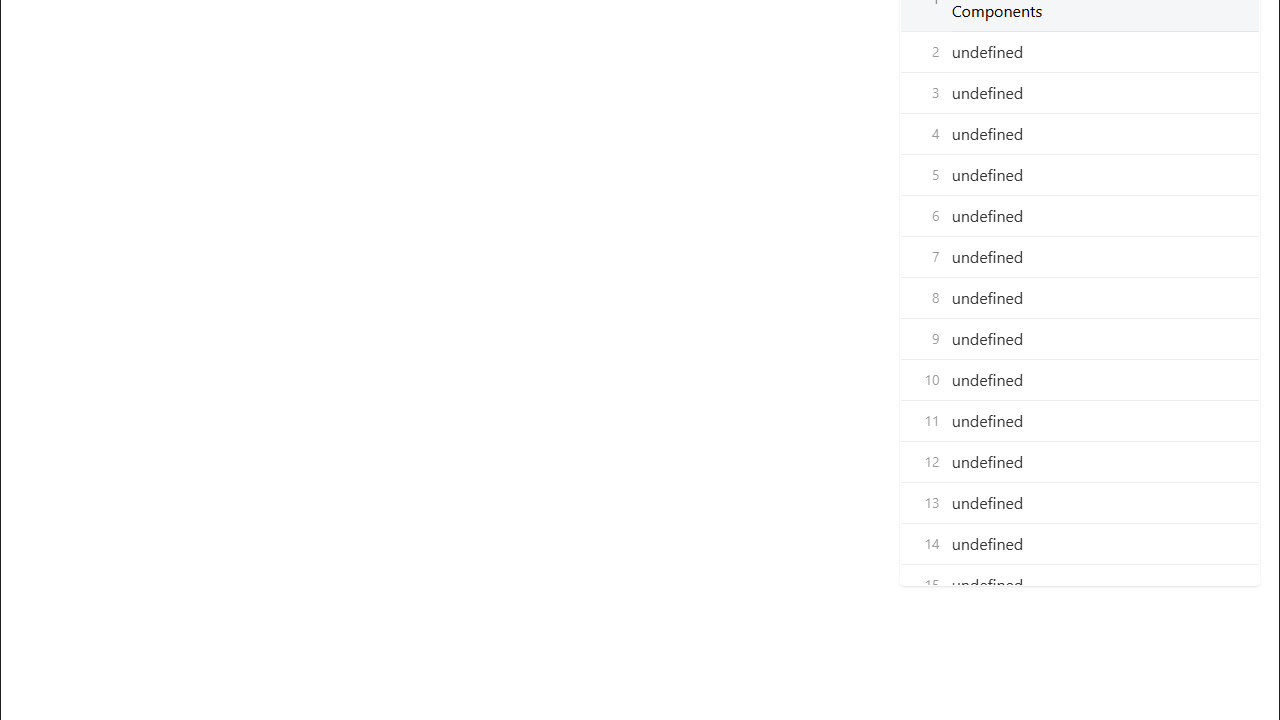
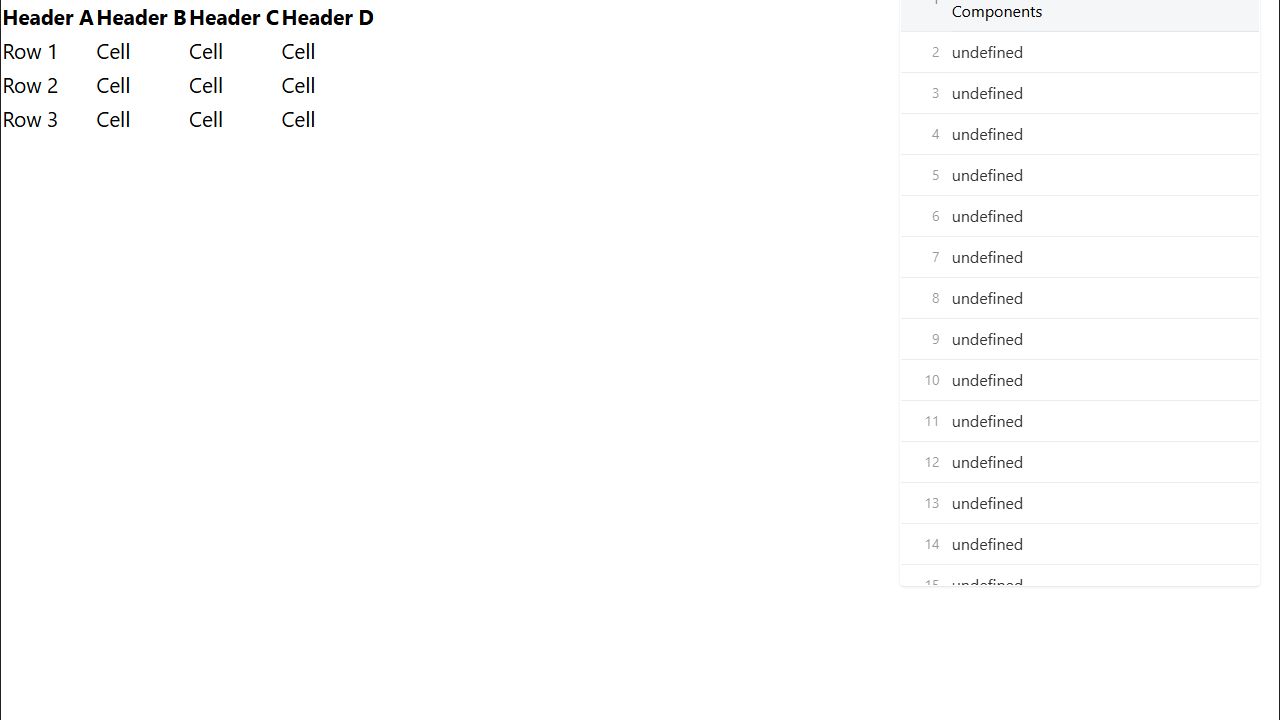
test(visual): rebaseline slides 73 + 74 for v0.4.3 new layouts
Repositioned text-with-icons + table gallery entries from slides
145-146 (outside the SLIDE_COUNT=101 VR window) to slides 73-74
(inside the window) so they get VR coverage without bumping
SLIDE_COUNT.

Pre-existing 102-146 gap in VR coverage remains as tech debt for
a future cleanup release.

Per spec §6.1 (per-task rebaseline, not full sweep).

diff --git a/pages/all-layouts.md b/pages/all-layouts.md
@@ -451,6 +451,44 @@ Describe what the screenshot shows. Keep it brief — one or two sentences maxim
 ![Screenshot placeholder](https://placehold.co/960x600/F0F0F0/333333?text=Screenshot)
 
 ---
+layout: text-with-icons
+title: "Text with icons (6-item POTX example)"
+items:
+  - icon: lightbulb
+    title: "Capability A"
+    description: "Sample text describing capability A."
+    link:
+      text: "Learn more"
+      url: "#"
+  - icon: people-connected
+    title: "Capability B"
+    description: "Sample text describing capability B."
+  - icon: target-group
+    title: "Capability C"
+    description: "Sample text describing capability C."
+  - icon: lightbulb
+    title: "Capability D"
+    description: "Sample text describing capability D."
+  - icon: people-connected
+    title: "Capability E"
+    description: "Sample text describing capability E."
+  - icon: target-group
+    title: "Capability F"
+    description: "Sample text describing capability F."
+---
+
+---
+layout: table
+title: "Four-column table"
+---
+
+| Header A | Header B | Header C | Header D |
+| -------- | -------- | -------- | -------- |
+| Row 1    | Cell     | Cell     | Cell     |
+| Row 2    | Cell     | Cell     | Cell     |
+| Row 3    | Cell     | Cell     | Cell     |
+
+---
 
 layout: q-and-a
 eyebrow: Sample eyebrow
@@ -846,44 +884,6 @@ Pane 3
 ::col4::
 
 Pane 4
-
----
-layout: text-with-icons
-title: "Text with icons (6-item POTX example)"
-items:
-  - icon: lightbulb
-    title: "Capability A"
-    description: "Sample text describing capability A."
-    link:
-      text: "Learn more"
-      url: "#"
-  - icon: people-connected
-    title: "Capability B"
-    description: "Sample text describing capability B."
-  - icon: target-group
-    title: "Capability C"
-    description: "Sample text describing capability C."
-  - icon: lightbulb
-    title: "Capability D"
-    description: "Sample text describing capability D."
-  - icon: people-connected
-    title: "Capability E"
-    description: "Sample text describing capability E."
-  - icon: target-group
-    title: "Capability F"
-    description: "Sample text describing capability F."
----
-
----
-layout: table
-title: "Four-column table"
----
-
-| Header A | Header B | Header C | Header D |
-| -------- | -------- | -------- | -------- |
-| Row 1    | Cell     | Cell     | Cell     |
-| Row 2    | Cell     | Cell     | Cell     |
-| Row 3    | Cell     | Cell     | Cell     |
 
 ---
 